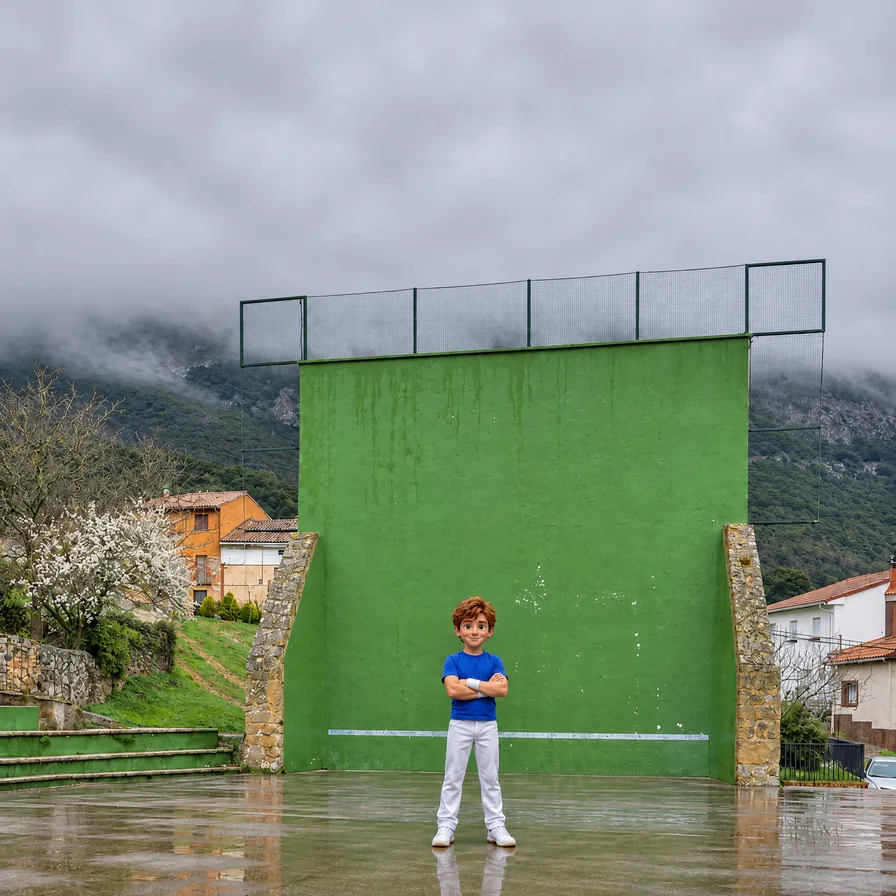
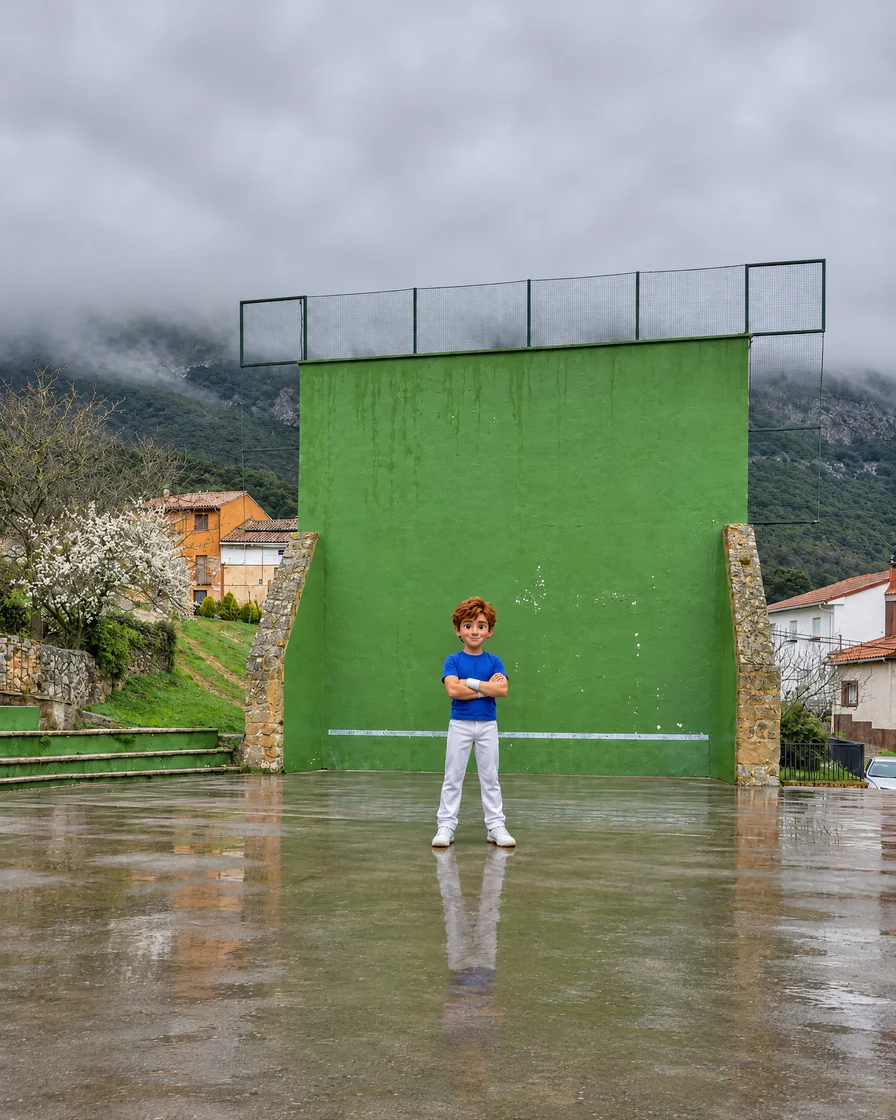
Portadas de los campeonatos: el pelotari entero y en plano cerrado en cada carta
Diez portadas tenían la figura con los pies pegados al borde de abajo de la imagen y el nombre de la carta le tapaba las piernas. Se les ha pintado con Higgsfield el suelo que sigue hacia la cámara (la imagen aprobada queda encima, tal cual) y ahora miden 2048 × 2560. La tabla de dónde está cada figura se ha medido de nuevo con regla y el encuadre la lleva de arriba a abajo de la carta: cabeza cerca del borde y pies justo por encima del nombre (más arriba si el nombre ocupa dos líneas). Visto en el móvil tumbado y en el ordenador.

Claude-Session: https://claude.ai/code/session_01LP3syHb7415C8M5w3wgHaS

diff --git a/src/game/torneo.js b/src/game/torneo.js
@@ -49,21 +49,29 @@ const porNombre = (g) => Object.fromEntries(Object.entries(g).map(([k, u]) => [k
 const FONDOS_M = porNombre(import.meta.glob('../assets/pelota/fondos/media/*.webp', { eager: true, query: '?url', import: 'default' }));
 const FONDOS_HD = porNombre(import.meta.glob('../assets/pelota/fondos/hd/*.webp', { eager: true, query: '?url', import: 'default' }));
 const nitida = (k) => { const l = [FONDOS_M[k] && `${FONDOS_M[k]} 1280`, FONDOS_HD[k] && `${FONDOS_HD[k]} 2048`].filter(Boolean); return l.length ? ` data-nitida="${l.join(',')}" data-ancho="896"` : ''; };
-// dónde está la figura en cada portada (fracciones de la imagen, que es cuadrada): el centro de lado y de la cabeza a los
-// pies, medido sobre las ilustraciones. Con eso, encuadre() acerca la imagen para que la figura ocupe unos dos tercios del
-// alto de la portada (3 × 4), centrada de lado y con los pies por encima del nombre. El autor, 17 de noviembre de 2026:
-// «que se vea más al pelotari o a la pelotari, no tanto fondo; y cuadra los pelotaris en la imagen». Antes se veía la
-// ilustración entera, con la figura pequeña en medio del frontón
-const FIGURA = { camara: [0.46, 0.73, 0.93], coleccion: [0.52, 0.37, 0.93], comarcas: [0.53, 0.66, 0.93], cuatro: [0.52, 0.43, 0.78],
-  fiestas: [0.49, 0.64, 0.98], frontones: [0.54, 0.64, 0.97], gran: [0.49, 0.68, 0.91], invierno: [0.65, 0.57, 0.75], libre: [0.69, 0.51, 0.73],
-  mano: [0.48, 0.6, 0.82], parejas: [0.485, 0.6, 0.93], promesas: [0.5, 0.48, 0.85], retos: [0.47, 0.62, 0.9], trinquete: [0.52, 0.52, 0.89], valles: [0.54, 0.63, 0.95] };
-/** El tamaño y la posición del fondo para encuadrar la figura de la portada k en una carta de proporción ar (alto / ancho). */
-export function encuadre(k, ar = 4 / 3) {
+// dónde está la figura en cada portada (fracciones del cuadrado de 2048 px en que se dibujó): el centro de lado y de la
+// cabeza a los pies, medido con regla sobre cada ilustración (19 de noviembre de 2026). Con eso, encuadre() acerca la imagen para que la figura llene la
+// portada de arriba abajo, centrada de lado y con los pies justo por encima del nombre. El autor, 17 de noviembre de
+// 2026: «que se vea más al pelotari o a la pelotari, no tanto fondo; y cuadra los pelotaris en la imagen». Antes se veía
+// la ilustración entera, con la figura pequeña en medio del frontón
+const FIGURA = { camara: [0.46, 0.735, 0.935], coleccion: [0.52, 0.555, 0.925], comarcas: [0.527, 0.655, 0.935], cuatro: [0.525, 0.447, 0.776],
+  fiestas: [0.496, 0.66, 0.982], frontones: [0.544, 0.645, 0.98], gran: [0.497, 0.684, 0.912], invierno: [0.653, 0.572, 0.75], libre: [0.703, 0.51, 0.731],
+  mano: [0.486, 0.611, 0.812], parejas: [0.511, 0.607, 0.931], promesas: [0.502, 0.496, 0.862], retos: [0.472, 0.625, 0.915], trinquete: [0.518, 0.517, 0.93], valles: [0.545, 0.639, 0.943] };
+// LAS PORTADAS AMPLIADAS POR ABAJO (19 de noviembre de 2026; el autor, con el carrusel en el iPhone: «los personajes no
+// están cerrados en las cards»). En diez de las quince la figura tenía los pies pegados al borde de abajo de la imagen:
+// no quedaba suelo debajo para subirla y los pies acababan tapados por el nombre. A esas se les pintó con Higgsfield
+// (gpt_image_2_6, con la imagen aprobada de referencia) el suelo que seguía hacia la cámara, y encima va la original,
+// tal cual: ahora miden 2048 × 2560 (alto 1,25 veces el ancho) y lo de arriba es la imagen de siempre
+const AMPLIADA = new Set(['camara', 'coleccion', 'comarcas', 'fiestas', 'frontones', 'gran', 'parejas', 'retos', 'trinquete', 'valles']);
+/** El tamaño y la posición del fondo para encuadrar la figura de la portada k en una carta de proporción ar (alto /
+ * ancho). pie: a qué altura de la carta van los pies (0,75 con el nombre en una línea; más arriba si ocupa dos). */
+export function encuadre(k, ar = 4 / 3, pie = 0.75) {
   const f = FIGURA[k]; if (!f) return null;
-  const [cx, y0, y1] = f, hf = y1 - y0;
-  // (lo que se ve de la imagen: la figura, un 64 % del alto; sin acercar más de 3,2 veces, que se vería borrosa)
-  const hc = Math.min(0.98, Math.max(0.31, hf / 0.64)), wc = hc / ar;
-  const L = Math.min(Math.max(cx - wc / 2, 0), 1 - wc), T = Math.min(Math.max(y1 - hc * 0.77, 0), 1 - hc);   // (los pies, al 77 % del alto: por encima del nombre aunque ocupe dos líneas)
+  const ia = AMPLIADA.has(k) ? 1.25 : 1, cx = f[0], y0 = f[1] / ia, y1 = f[2] / ia, hf = y1 - y0;
+  // (lo que se ve de la imagen, en fracción de su alto: la figura, desde un 7 % por debajo del borde de arriba hasta
+  // los pies; sin acercar más que antes, que se vería borrosa: nunca menos de 635 px de alto de la imagen de 2048)
+  const hc = Math.min(0.98, Math.max(0.31 / ia, hf / (pie - 0.07))), wc = hc * ia / ar;
+  const L = Math.min(Math.max(cx - wc / 2, 0), 1 - wc), T = Math.min(Math.max(y1 - hc * pie, 0), 1 - hc);
   return { size: `${(100 / wc).toFixed(1)}% auto`, pos: `${(wc < 1 ? L / (1 - wc) * 100 : 50).toFixed(1)}% ${(hc < 1 ? T / (1 - hc) * 100 : 50).toFixed(1)}%` };
 }
 // (el idioma, el que marca la página: en euskera, «eu»)
@@ -1252,7 +1260,7 @@ export function pelotaMenu(T, here = null, T2 = null, o = null, T3 = null, X = [
       { a: 'pelotaris', cls: 'cp-col', fondo: 'coleccion', figs: trio.map(n => pelotariFig(n, 'rojo', 'fig')).join(''), tag: 'Tu colección', name: 'Pelotaris', fase: 'Descubiertos', contra: `${C.have}/${C.total} pelotaris` },
     ].filter(Boolean);
     // (largo: los nombres de dos líneas, en letra algo menor, para que no tapen los pies del pelotari)
-    const portada = (it) => `<button type="button" class="c3-port ${it.cls}${it.name.replace(/&nbsp;/g, ' ').length > 14 ? ' largo' : ''}" data-a="${it.a}" aria-label="${it.name.replace(/&nbsp;/g, ' ')}"${FONDOS[it.fondo] ? ` style="--foto:url('${FONDOS[it.fondo]}')${(e => e ? `;background-size:${e.size};background-position:${e.pos}` : '')(encuadre(it.fondo, AR_PORT))}"${nitida(it.fondo)}` : ''}>${FONDOS[it.fondo] ? '' : `<span class="c3-figs">${it.figs}</span>`}${it.tx ? `<span class="c3-tx">${iconSVG('txapela', 16, 'cp-txi')}<b>${it.tx}</b></span>` : ''}<span class="c3-pie"><small>${it.tag}</small><b>${it.name}</b></span></button>`;
+    const portada = (it) => `<button type="button" class="c3-port ${it.cls}${it.name.replace(/&nbsp;/g, ' ').length > 14 ? ' largo' : ''}" data-a="${it.a}" aria-label="${it.name.replace(/&nbsp;/g, ' ')}"${FONDOS[it.fondo] ? ` style="--foto:url('${FONDOS[it.fondo]}')${(e => e ? `;background-size:${e.size};background-position:${e.pos}` : '')(encuadre(it.fondo, AR_PORT, it.name.replace(/&nbsp;/g, ' ').length > 14 ? 0.69 : 0.75))}"${nitida(it.fondo)}` : ''}>${FONDOS[it.fondo] ? '' : `<span class="c3-figs">${it.figs}</span>`}${it.tx ? `<span class="c3-tx">${iconSVG('txapela', 16, 'cp-txi')}<b>${it.tx}</b></span>` : ''}<span class="c3-pie"><small>${it.tag}</small><b>${it.name}</b></span></button>`;
     // (AR_PORT: alto / ancho de cada portada; más estrechas que el 4/3 de antes, para que quepan más a lo ancho)
     const eu = isEU(), CLAVE = 'herrizherri-pelota-carta';
     cssMenu(); cssCarrusel();

diff --git a/src/assets/pelota/fondos/LICENCIAS.md b/src/assets/pelota/fondos/LICENCIAS.md
@@ -16,6 +16,13 @@ carrusel solo para la portada de delante, ver `src/game/carrusel3d.js`). Las de 
 del repositorio (commit `dfaa214c` y anteriores). `mano.webp` sale de la versión recompuesta que quedó en el juego y
 `cuatro.webp`, de la del pelotari grande (commit `dfaa214c`).
 
+El 19 de noviembre de 2026 se ampliaron por abajo diez de ellas (`camara`, `coleccion`, `comarcas`, `fiestas`,
+`frontones`, `gran`, `parejas`, `retos`, `trinquete` y `valles`): la figura tenía los pies pegados al borde de abajo y en
+la carta del carrusel el nombre le tapaba las piernas (el autor: «los personajes no están cerrados en las cards»). Con
+Higgsfield (gpt_image_2_6, con cada imagen aprobada de referencia) se pintó el suelo que sigue hacia la cámara, y encima
+va la imagen de siempre, tal cual, píxel a píxel: ahora miden 2048 × 2560 (y 1280 × 1600 y 896 × 1120). Las cuadradas
+de antes están en el historial del repositorio.
+
 El autor pidió el 17 de noviembre que fueran «frontones reales», calcados «centímetro a centímetro» de fotografías, y
 que para las portadas hubiera «frontones grandes, frontones cubiertos»; dijo «me valen el Ogueta y el Beotibar». El
 Ogueta está en Vitoria y el Beotibar en Tolosa. Las dos fotos del Navarra Arena que mandó no tienen licencia libre y no
